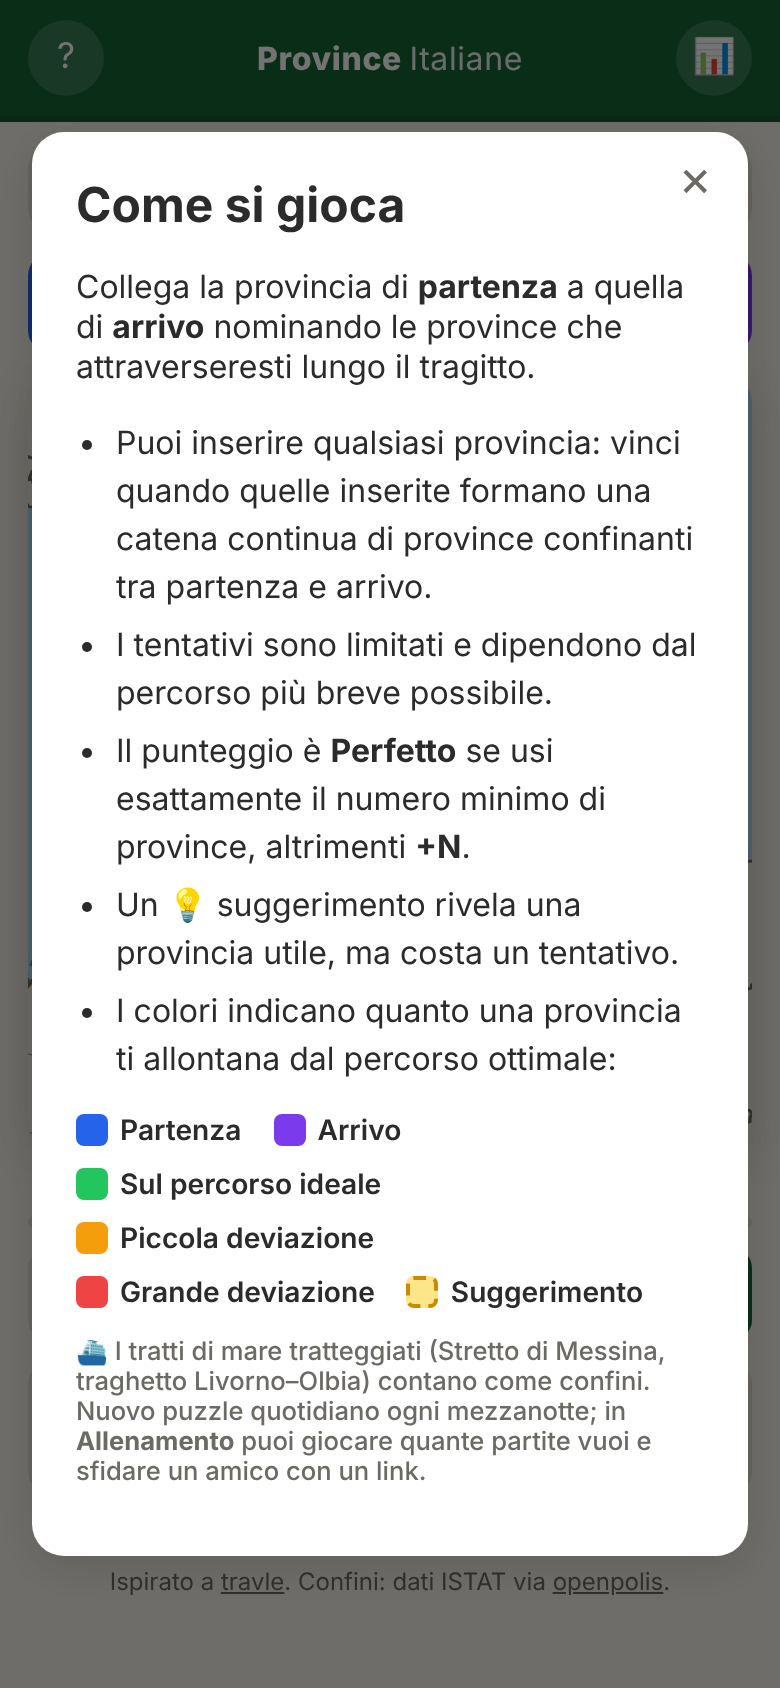
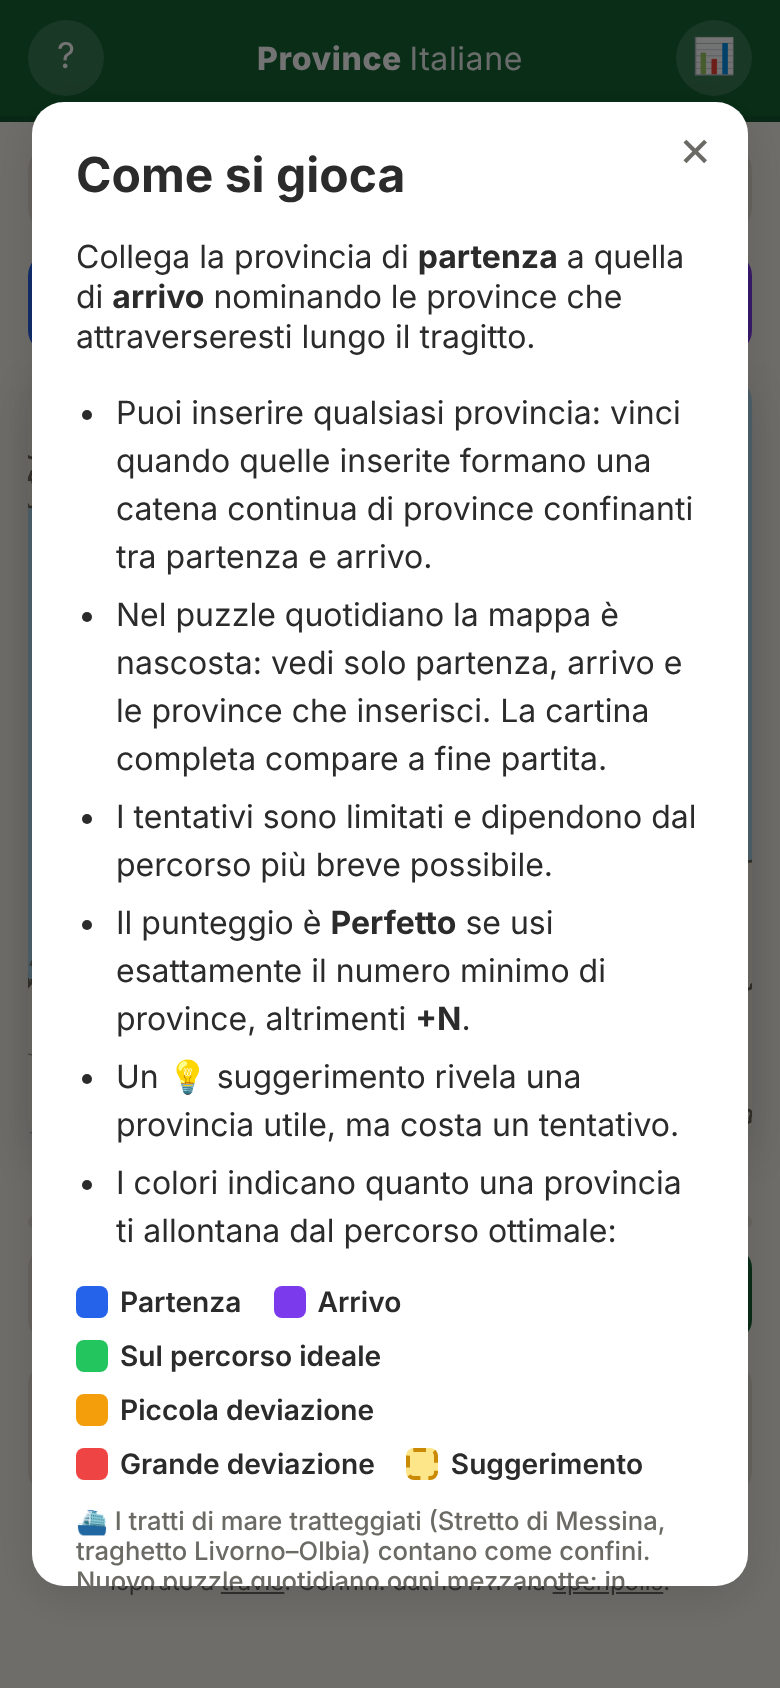
Hide the map in the daily puzzle until the game ends
In the daily puzzle only the start, the destination and the provinces the
player enters are drawn; region borders and sea crossings stay hidden.
The whole map is revealed when the game is won, lost or given up.
Practice and challenge games keep the full map.

Adds tests for both modes and a daily screenshot to the README, taken at
a fixed date so it stays reproducible.

Changed region(s): [[0.0308, 0.0616, 0.9538, 0.955], [0.0923, 0.5237, 0.1231, 0.5545]]

diff --git a/tests/game.spec.js b/tests/game.spec.js
@@ -40,6 +40,36 @@ test('mostra il puzzle quotidiano con la mappa completa', async ({ page }) => {
   await expect(page.locator('#puzzle-id')).toHaveText(/Puzzle #\d+/);
 });
 
+test('nel quotidiano la mappa si scopre man mano e compare tutta a fine partita', async ({ page }) => {
+  await open(page, '/');
+  const visible = page.locator('.prov:not(.hidden)');
+  await expect(visible).toHaveCount(2);
+  await expect(page.locator('#layer-regions')).toBeHidden();
+  await expect(page.locator('.sea:not(.hidden)')).toHaveCount(0);
+
+  const s = await state(page);
+  const far = await page.evaluate(() =>
+    SIGLAS.find(x => x !== game.start && x !== game.end && !NB[game.start].includes(x) && !NB[game.end].includes(x)));
+  await page.evaluate(x => submitGuess(x), far);
+  await expect(visible).toHaveCount(3);
+  await expect(page.locator(`#p-${far}`)).not.toHaveClass(/hidden/);
+  await expect(page.locator(`#p-${s.start}`)).toHaveClass(/start/);
+
+  await page.click('#btn-giveup');
+  await page.click('#btn-giveup');
+  await expect(visible).toHaveCount(110);
+  await expect(page.locator('#layer-regions')).toBeVisible();
+  await expect(page.locator('.sea:not(.hidden)')).toHaveCount(2);
+});
+
+test('in allenamento la mappa è sempre completa', async ({ page }) => {
+  await open(page, CHALLENGE);
+  await expect(page.locator('.prov:not(.hidden)')).toHaveCount(110);
+  await expect(page.locator('#layer-regions')).toBeVisible();
+  await page.click('#mode-practice');
+  await expect(page.locator('.prov:not(.hidden)')).toHaveCount(110);
+});
+
 test('l\'aiuto compare alla prima visita e si chiude con Esc', async ({ browser }) => {
   const page = await browser.newPage();
   await page.goto('/');

diff --git a/game.js b/game.js
@@ -263,8 +263,9 @@ function buildMap() {
   $('layer-sea').innerHTML = DATA.sea_edges.map(([a, b]) => {
     const pa = P[a], pb = P[b];
     const mx = (pa.lx + pb.lx) / 2, my = (pa.ly + pb.ly) / 2;
-    return `<line class="sea-edge" x1="${pa.lx}" y1="${pa.ly}" x2="${pb.lx}" y2="${pb.ly}"/>` +
-           `<text class="ferry" x="${mx}" y="${my}">⛴</text>`;
+    return `<g class="sea" data-a="${a}" data-b="${b}">` +
+           `<line class="sea-edge" x1="${pa.lx}" y1="${pa.ly}" x2="${pb.lx}" y2="${pb.ly}"/>` +
+           `<text class="ferry" x="${mx}" y="${my}">⛴</text></g>`;
   }).join('');
 
   const svg = $('map');
@@ -290,10 +291,21 @@ function showTooltip(e) {
 }
 function hideTooltip() { $('tooltip').hidden = true; }
 
+// Nel quotidiano in corso la mappa è nascosta: si vedono solo le province già
+// scoperte. A fine partita (e in allenamento) compare tutta l'Italia.
+const isFogged = () => game.mode === 'daily' && !game.over;
+
 function paintMap() {
   const solution = game.over ? new Set(shortestPath(game.start, game.end)) : new Set();
+  const fog = isFogged();
+  const shown = new Set(revealedList());
+  $('map').classList.toggle('fog', fog);
+  for (const g of $('layer-sea').children) {
+    g.classList.toggle('hidden', fog && !(shown.has(g.dataset.a) && shown.has(g.dataset.b)));
+  }
   for (const sig of SIGLAS) {
     const cls = ['prov'];
+    if (fog && !shown.has(sig)) cls.push('hidden');
     if (sig === game.start) cls.push('start');
     else if (sig === game.end) cls.push('end');
     else {

diff --git a/index.html b/index.html
@@ -110,6 +110,7 @@
     <p>Collega la provincia di <b>partenza</b> a quella di <b>arrivo</b> nominando le province che attraverseresti lungo il tragitto.</p>
     <ul class="rules">
       <li>Puoi inserire qualsiasi provincia: vinci quando quelle inserite formano una catena continua di province confinanti tra partenza e arrivo.</li>
+      <li>Nel puzzle quotidiano la mappa è nascosta: vedi solo partenza, arrivo e le province che inserisci. La cartina completa compare a fine partita.</li>
       <li>I tentativi sono limitati e dipendono dal percorso più breve possibile.</li>
       <li>Il punteggio è <b>Perfetto</b> se usi esattamente il numero minimo di province, altrimenti <b>+N</b>.</li>
       <li>Un 💡 suggerimento rivela una provincia utile, ma costa un tentativo.</li>

diff --git a/style.css b/style.css
@@ -119,8 +119,10 @@ main { max-width: 560px; margin: 0 auto; padding: 10px 14px 48px; }
 .prov {
   fill: var(--land); stroke: var(--land-stroke); stroke-width: .6;
   stroke-linejoin: round; vector-effect: non-scaling-stroke;
-  transition: fill .25s;
+  transition: fill .25s, opacity .4s, visibility .4s;
 }
+.prov.hidden, .sea.hidden { opacity: 0; visibility: hidden; }
+#map.fog #layer-regions { display: none; }
 .prov.start { fill: var(--start); }
 .prov.end { fill: var(--end); }
 .prov.g-ok { fill: var(--g-ok); }

diff --git a/README.md b/README.md
@@ -9,6 +9,7 @@ Ispirato a [travle](https://travle.earth/ita), riscritto da zero: HTML, CSS e Ja
 ## Come si gioca
 
 - Ogni giorno c'è una provincia di **partenza** e una di **arrivo**.
+- Nel puzzle quotidiano la **mappa è nascosta**: all'inizio vedi solo partenza e arrivo, e ogni provincia che inserisci compare sulla cartina. L'Italia intera si svela a fine partita, che tu vinca o perda. In allenamento la mappa è sempre completa.
 - Scrivi il nome di una provincia qualsiasi: vinci quando quelle inserite formano una **catena continua di province confinanti** tra partenza e arrivo.
 - I tentativi sono limitati: il percorso minimo più qualche tentativo extra.
 - Ogni provincia si colora in base a quanto ti allontana dal percorso ideale:
@@ -21,16 +22,16 @@ Ispirato a [travle](https://travle.earth/ita), riscritto da zero: HTML, CSS e Ja
 
 - **Puzzle quotidiano** uguale per tutti, che cambia a mezzanotte, con conto alla rovescia al prossimo.
 - **Allenamento**: partite casuali illimitate e **link sfida** da mandare agli amici (`?da=CE&a=FI`).
-- **Mappa interattiva** di tutte le 110 province con zoom automatico sulla zona della partita, nomi sulle province scoperte e confini regionali.
+- **Mappa interattiva** delle 110 province con zoom automatico sulla zona della partita e nomi sulle province scoperte; nel quotidiano si svela man mano che giochi.
 - **Autocompletamento** tollerante: accenti, apostrofi, sigle (`RM`) e nomi alternativi (`Reggio Emilia`, `Olbia`, `Bozen`…).
 - **Risultato condivisibile** con griglia di emoji, in stile Wordle.
 - **Statistiche** salvate nel browser: partite, percentuale di vittorie, serie di giorni consecutivi e distribuzione dei punteggi.
 - Partita quotidiana **salvata** automaticamente: puoi chiudere la pagina e riprendere.
 - **Tema scuro** automatico, layout per mobile, navigazione da tastiera.
 
-| Mobile | Risultato | Tema scuro | Regole |
-| :---: | :---: | :---: | :---: |
-| ![Mobile](docs/screenshots/mobile.png) | ![Risultato](docs/screenshots/risultato.png) | ![Tema scuro](docs/screenshots/tema-scuro.png) | ![Regole](docs/screenshots/regole.png) |
+| Quotidiano | Allenamento | Risultato | Tema scuro | Regole |
+| :---: | :---: | :---: | :---: | :---: |
+| ![Quotidiano con la mappa nascosta](docs/screenshots/quotidiano.png) | ![Allenamento su mobile](docs/screenshots/mobile.png) | ![Risultato](docs/screenshots/risultato.png) | ![Tema scuro](docs/screenshots/tema-scuro.png) | ![Regole](docs/screenshots/regole.png) |
 
 ## Avvio
 
